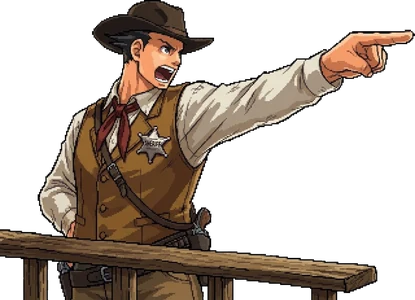
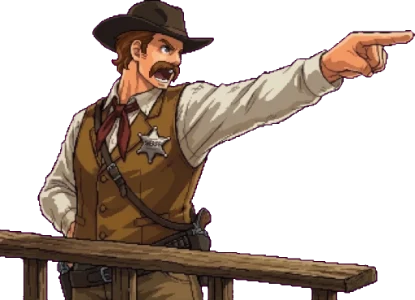
Add the missing reaction portraits and the redrawn sheriff
- New portraits: Two-Fist angry/happy/surprised, Lavinia angry/happy/surprised, Dutch sly
- Sheriff redrawn with brown hair and a mustache, poses unchanged
- Portraits are now loaded automatically from src/assets/portraits
- Cut-out tool that runs in the browser (art/cutout-server.mjs), no Python needed
- Gallery cover and regulars images updated to the new sheriff
- Devpost links and feedback survey draft

diff --git a/art/gallery-fix.html b/art/gallery-fix.html
@@ -1,0 +1,104 @@
+<!doctype html>
+<html lang="en">
+<head>
+<meta charset="utf-8">
+<title>Gallery fix</title>
+<style>
+  body { margin: 0; padding: 16px; background: #1d110b; color: #f3e6cc; font: 14px system-ui; }
+  img, canvas { display: block; max-width: 100%; margin-bottom: 12px; }
+</style>
+</head>
+<body>
+<p id="status">Working…</p>
+<div id="out"></div>
+<script>
+// Finds the old sheriff portrait inside a gallery image (alpha-masked template match over a
+// range of scales) and paints the new portrait over it at the same position and size.
+// ?save=1 writes the result back to submission/gallery (the old image is kept in art/new/out).
+const JOBS = [
+  { name: '0-cover', mood: 'happy' },
+  { name: '2-regulars', mood: 'happy' },
+];
+const load = (src) => new Promise((ok, err) => { const i = new Image(); i.onload = () => ok(i); i.onerror = err; i.src = src; });
+const pixels = (img, w, h) => {
+  const c = new OffscreenCanvas(w, h), g = c.getContext('2d');
+  g.drawImage(img, 0, 0, w, h);
+  return g.getImageData(0, 0, w, h).data;
+};
+
+function match(scene, sw, sh, tmpl, tw, th, step) {
+  // Mean squared difference over the template's opaque pixels, sampled every `step` pixels.
+  const pts = [];
+  for (let y = 0; y < th; y += step) for (let x = 0; x < tw; x += step) {
+    const i = (y * tw + x) * 4;
+    if (tmpl[i + 3] > 250) pts.push([x, y, tmpl[i], tmpl[i + 1], tmpl[i + 2]]);
+  }
+  let best = { err: Infinity };
+  for (let oy = 0; oy + th <= sh; oy += step) for (let ox = 0; ox + tw <= sw; ox += step) {
+    let e = 0;
+    for (const [x, y, r, g, b] of pts) {
+      const j = ((oy + y) * sw + ox + x) * 4;
+      const dr = scene[j] - r, dg = scene[j + 1] - g, db = scene[j + 2] - b;
+      e += dr * dr + dg * dg + db * db;
+      if (e > best.err * pts.length) break;
+    }
+    e /= pts.length;
+    if (e < best.err) best = { err: e, x: ox, y: oy };
+  }
+  return best;
+}
+
+async function fix({ name, mood }) {
+  const scene = await load(`/asset/submission/gallery/${name}.png`);
+  const backup = await load(`/asset/art/new/out/${name}-OLD.png`).catch(() => null);
+  const base = backup ?? scene; // always patch the original, never an already-patched image
+  const oldP = await load(`/asset/art/new/out/sheriff-${mood}-OLD.webp`);
+  const newP = await load(`/asset/src/assets/portraits/sheriff-${mood}.webp?${Date.now()}`);
+  const W = base.naturalWidth, H = base.naturalHeight;
+  // Coarse search at quarter size, then refine at full size around the best spot.
+  const q = 4, sw = Math.round(W / q), sh = Math.round(H / q);
+  const sceneQ = pixels(base, sw, sh);
+  let best = { err: Infinity };
+  for (let s = 0.30; s <= 0.80; s += 0.01) {
+    const tw = Math.round(oldP.naturalWidth * s / q), th = Math.round(oldP.naturalHeight * s / q);
+    const m = match(sceneQ, sw, sh, pixels(oldP, tw, th), tw, th, 1);
+    if (m.err < best.err) best = { ...m, s };
+  }
+  const sceneF = pixels(base, W, H);
+  let fine = { err: Infinity };
+  for (let s = best.s - 0.012; s <= best.s + 0.012; s += 0.002) {
+    const tw = Math.round(oldP.naturalWidth * s), th = Math.round(oldP.naturalHeight * s);
+    const t = pixels(oldP, tw, th);
+    const x0 = Math.max(0, best.x * q - 10), y0 = Math.max(0, best.y * q - 10);
+    // Crop the scene around the coarse hit to keep the fine search small.
+    const cw = Math.min(W - x0, tw + 20), ch = Math.min(H - y0, th + 20);
+    const crop = new Uint8ClampedArray(cw * ch * 4);
+    for (let y = 0; y < ch; y++) crop.set(sceneF.subarray(((y0 + y) * W + x0) * 4, ((y0 + y) * W + x0 + cw) * 4), y * cw * 4);
+    const m = match(crop, cw, ch, t, tw, th, 1);
+    if (m.err < fine.err) fine = { err: m.err, x: x0 + m.x, y: y0 + m.y, s, tw, th };
+  }
+  // Paint: the portrait's height maps to the same height; the new art keeps its own width.
+  const out = document.createElement('canvas');
+  out.width = W; out.height = H;
+  const g = out.getContext('2d');
+  g.drawImage(base, 0, 0);
+  const h = fine.th, w = Math.round(newP.naturalWidth * h / newP.naturalHeight);
+  g.imageSmoothingQuality = 'high';
+  g.drawImage(newP, fine.x, fine.y, w, h);
+  document.getElementById('out').append(out);
+  if (new URLSearchParams(location.search).get('save')) {
+    const blob = await new Promise((r) => out.toBlob(r, 'image/png'));
+    await fetch(`/save-gallery?name=${name}`, { method: 'POST', body: blob });
+  }
+  return { name, x: fine.x, y: fine.y, w, h, scale: +fine.s.toFixed(3), err: Math.round(fine.err) };
+}
+
+(async () => {
+  const res = [];
+  for (const j of JOBS) res.push(await fix(j));
+  window.fixResult = res;
+  document.getElementById('status').textContent = JSON.stringify(res);
+})();
+</script>
+</body>
+</html>

diff --git a/art/cutout.html b/art/cutout.html
@@ -1,0 +1,84 @@
+<!doctype html>
+<html lang="en">
+<head>
+<meta charset="utf-8">
+<title>Portrait cut-out</title>
+<style>
+  body { margin: 0; padding: 16px; background: #1d110b; color: #f3e6cc; font: 14px system-ui; }
+  h1 { font-size: 18px; margin: 0 0 12px; }
+  .grid { display: flex; flex-wrap: wrap; gap: 16px; }
+  figure { margin: 0; background: #2b1a12; padding: 8px; border: 2px solid #5a3a24; }
+  figcaption { margin-top: 6px; font-size: 12px; color: #cdb894; }
+  canvas { display: block; image-rendering: pixelated; }
+</style>
+</head>
+<body>
+<h1>Portrait cut-out</h1>
+<p id="status">Working…</p>
+<div class="grid" id="grid"></div>
+<script>
+// Same keying rules as art/cutout.py.
+const isKey = (r, g, b) => r > 140 && b > 140 && g < 120 && Math.abs(r - b) < 100 && (r + b) / 2 - g > 80;
+const HEIGHT = 300;
+
+async function cut(file) {
+  const name = file.replace(/\.[^.]+$/, '');
+  const img = new Image();
+  img.src = '/img/' + encodeURIComponent(file);
+  await img.decode();
+  const c = document.createElement('canvas');
+  c.width = img.naturalWidth; c.height = img.naturalHeight;
+  const g = c.getContext('2d', { willReadFrequently: true });
+  g.drawImage(img, 0, 0);
+  const { width: w, height: h } = c;
+  const d = g.getImageData(0, 0, w, h), p = d.data;
+  for (let i = 0; i < p.length; i += 4) if (isKey(p[i], p[i + 1], p[i + 2])) p[i + 3] = 0;
+  for (let pass = 0; pass < 2; pass++) {
+    const kill = [];
+    for (let y = 1; y < h - 1; y++) for (let x = 1; x < w - 1; x++) {
+      const i = (y * w + x) * 4;
+      if (!p[i + 3]) continue;
+      const near = !p[i + 7] || !p[i - 1] || !p[i + w * 4 + 3] || !p[i - w * 4 + 3];
+      if (near && (p[i] + p[i + 2]) / 2 - p[i + 1] > 55 && p[i + 2] > 90) kill.push(i);
+    }
+    for (const i of kill) p[i + 3] = 0;
+  }
+  g.putImageData(d, 0, 0);
+  // Crop to the visible pixels.
+  let x0 = w, y0 = h, x1 = 0, y1 = 0;
+  for (let y = 0; y < h; y++) for (let x = 0; x < w; x++) if (p[(y * w + x) * 4 + 3]) {
+    if (x < x0) x0 = x; if (x > x1) x1 = x; if (y < y0) y0 = y; if (y > y1) y1 = y;
+  }
+  const cw = x1 - x0 + 1, ch = y1 - y0 + 1;
+  const out = document.createElement('canvas');
+  out.height = HEIGHT; out.width = Math.round(cw * HEIGHT / ch);
+  const o = out.getContext('2d');
+  o.imageSmoothingEnabled = true; o.imageSmoothingQuality = 'high';
+  o.drawImage(c, x0, y0, cw, ch, 0, 0, out.width, out.height);
+  const webp = await new Promise((r) => out.toBlob(r, 'image/webp', 0.88));
+  await fetch(`/save?kind=webp&name=${name}`, { method: 'POST', body: webp });
+  const prev = document.createElement('canvas');
+  prev.width = out.width; prev.height = out.height;
+  const pg = prev.getContext('2d');
+  pg.fillStyle = '#2b1a12'; pg.fillRect(0, 0, prev.width, prev.height); pg.drawImage(out, 0, 0);
+  const png = await new Promise((r) => prev.toBlob(r, 'image/png'));
+  await fetch(`/save?kind=preview&name=${name}`, { method: 'POST', body: png });
+  const fig = document.createElement('figure');
+  fig.append(prev);
+  const cap = document.createElement('figcaption');
+  cap.textContent = `${name}.webp · ${out.width}×${out.height}`;
+  fig.append(cap);
+  document.getElementById('grid').append(fig);
+  return name;
+}
+
+(async () => {
+  const files = await fetch('/list').then((r) => r.json());
+  const done = [];
+  for (const f of files) done.push(await cut(f));
+  document.getElementById('status').textContent = done.length ? `Saved ${done.length}: ${done.join(', ')}` : 'No images in art/new/';
+  window.cutoutDone = done;
+})();
+</script>
+</body>
+</html>

diff --git a/src/main.ts b/src/main.ts
@@ -4,19 +4,9 @@ import { Sim, STEP_MS, pointInPoly, type Shot, type Status } from './sim';
 import { SOLUTIONS } from './solutions';
 import { fetchNight, requestedDate } from './daily';
 import { detectReddit, journey, onReddit, reportResult, shareResult } from './reddit';
-import sheriffAngry from './assets/portraits/sheriff-angry.webp?inline';
-import dutchAny from './assets/portraits/dutch-any.webp?inline';
-import twofistAny from './assets/portraits/twofist-any.webp?inline';
-import laviniaAny from './assets/portraits/lavinia-any.webp?inline';
-import peteAny from './assets/portraits/pete-any.webp?inline';
-import sheriffHappy from './assets/portraits/sheriff-happy.webp?inline';
-import sheriffSurprised from './assets/portraits/sheriff-surprised.webp?inline';
-import sheriffSly from './assets/portraits/sheriff-sly.webp?inline';
-import dutchAngry from './assets/portraits/dutch-angry.webp?inline';
-import dutchSurprised from './assets/portraits/dutch-surprised.webp?inline';
-import peteAngry from './assets/portraits/pete-angry.webp?inline';
-import peteHappy from './assets/portraits/pete-happy.webp?inline';
-import peteSurprised from './assets/portraits/pete-surprised.webp?inline';
+// Every portrait in assets/portraits is picked up automatically, keyed by its file name
+// ("<customer>-<mood>.webp"), so new art only has to be dropped into the folder.
+const PORTRAIT_FILES = import.meta.glob<string>('./assets/portraits/*.webp', { eager: true, query: '?inline', import: 'default' });
 
 const $ = <T extends HTMLElement>(id: string) => document.getElementById(id) as T;
 const canvas = $<HTMLCanvasElement>('game');
@@ -385,16 +375,9 @@ canvas.addEventListener('pointerleave', (e) => { if (!drag && e.pointerType === 
 // ---------------- Reaction cut-ins: a big portrait slides in for the big moments ----------------
 // Art is keyed "<customer>-<mood>", with "<customer>-any" as that customer's fallback for
 // any mood. A moment without art simply shows no cut-in (the small speech bubble still appears).
-const PORTRAITS: Record<string, string> = {
-  'sheriff-angry': sheriffAngry,
-  'dutch-any': dutchAny,
-  'twofist-any': twofistAny,
-  'lavinia-any': laviniaAny,
-  'pete-any': peteAny,
-  'sheriff-happy': sheriffHappy, 'sheriff-surprised': sheriffSurprised, 'sheriff-sly': sheriffSly,
-  'dutch-angry': dutchAngry, 'dutch-surprised': dutchSurprised,
-  'pete-angry': peteAngry, 'pete-happy': peteHappy, 'pete-surprised': peteSurprised,
-};
+const PORTRAITS: Record<string, string> = Object.fromEntries(
+  Object.entries(PORTRAIT_FILES).map(([file, src]) => [file.split('/').pop()!.replace('.webp', ''), src]),
+);
 /** Background colour of the cut-in band per mood. */
 const CUTIN_MOOD: Record<string, string> = { angry: 'mood-angry', happy: 'mood-happy', surprised: 'mood-surprised', sly: 'mood-sly' };
 let peteSlapShown = false;

diff --git a/submission/FEEDBACK.md b/submission/FEEDBACK.md
@@ -1,0 +1,45 @@
+# Devvit feedback survey: draft answers
+
+Everything here happened while building Last Orders. Edit it into your own words, and add or remove
+anything. The Feedback Award rewards specific, actionable feedback, so concrete beats polite.
+
+## What went well
+
+- `devvit upload` on a fresh account walked me through the developer-account setup, created the app,
+  made a playtest subreddit and installed the app in one go. Very smooth first run.
+- `devvit playtest` rebuilding and re-uploading on every change, with server logs streamed in the
+  same terminal, made the fix-and-refresh loop fast.
+- The playtest log said exactly what was wrong when Journeys events were rejected ("requires
+  permissions.journeys to be enabled in devvit.json"). That message fixed the problem in one minute.
+
+## What was hard or confusing
+
+1. **The inline post is too small for an action game on desktop.** On a 1080p monitor the post frame
+   was about 630×460 px, which made a precision game unplayable. The answer (an inline launch card plus
+   `requestExpandedMode`) works well, but I only found it by reading the `.d.ts` files. A "games:
+   start from a splash screen, play in expanded mode" pattern belongs in the quickstart template and
+   the docs' first page about posts.
+2. **`requestExpandedMode` and `getWebViewMode` are marked `@experimental`.** For hackathon entries
+   it's unclear whether depending on them is safe. A note on stability, or "safe for production",
+   would help.
+3. **Journeys events are dropped in playtest versions** ("not recorded for playtest app versions").
+   Since Journeys are a judging bonus, I'd love a way to see them during playtest, even only in the
+   CLI, to check the instrumentation before the final upload.
+4. **App name collisions.** `last-orders` was taken. The web form said so, but the CLI had already
+   started. Checking the name from `devvit.json` before the browser step would save a round trip.
+5. **Node version.** The current template's TypeScript needs Node 22+, but the CLI ran on Node 20
+   until the build failed with an unrelated-looking `ERR_UNKNOWN_FILE_EXTENSION`. A Node version check
+   in `devvit` itself would make this obvious.
+6. **Playtest subreddits are created private**, but the hackathon requires a public one for judging.
+   A reminder in the CLI's output, or an option to create it public, would prevent last-minute
+   surprises.
+7. **Reddit markdown in `submitComment`.** Multi-line text loses its line breaks (single newlines are
+   merged). Obvious in hindsight, but a note in the `submitComment` docs would help anyone posting
+   formatted game results.
+
+## Feature requests
+
+- An official "daily game" template: one post per UTC day, a pinned results thread, streaks, and a
+  moderator override, since most entries rebuild the same thing.
+- `devvit logs` filters for scheduler runs, to confirm a cron job fired without waiting for the next
+  run.

diff --git a/submission/DEVPOST.md b/submission/DEVPOST.md
@@ -11,9 +11,9 @@ Last Orders
 You're the bartender. Slide every drink down a saloon bar into the right customer's circle: bank off brass, curl with spin, dodge the sheriff's hat. A new bar every day.
 
 **Try it out**
-- Demo post: [fill in: https://www.reddit.com/r/last_orders_saloo_dev/comments/… (the subreddit must be public first)]
+- Demo post: https://www.reddit.com/r/last_orders_saloo_dev/comments/1y1ba11/last_orders_night_1_two_drifters/ (Nov 20 handmade night; swap for a December post before submitting)
 - App listing: https://developers.reddit.com/apps/last-orders-saloon
-- Code: [fill in, optional]
+- Code: https://github.com/Nyuszi/last-orders
 
 **Video**: [fill in: YouTube or Vimeo link, under 1 minute]
 
